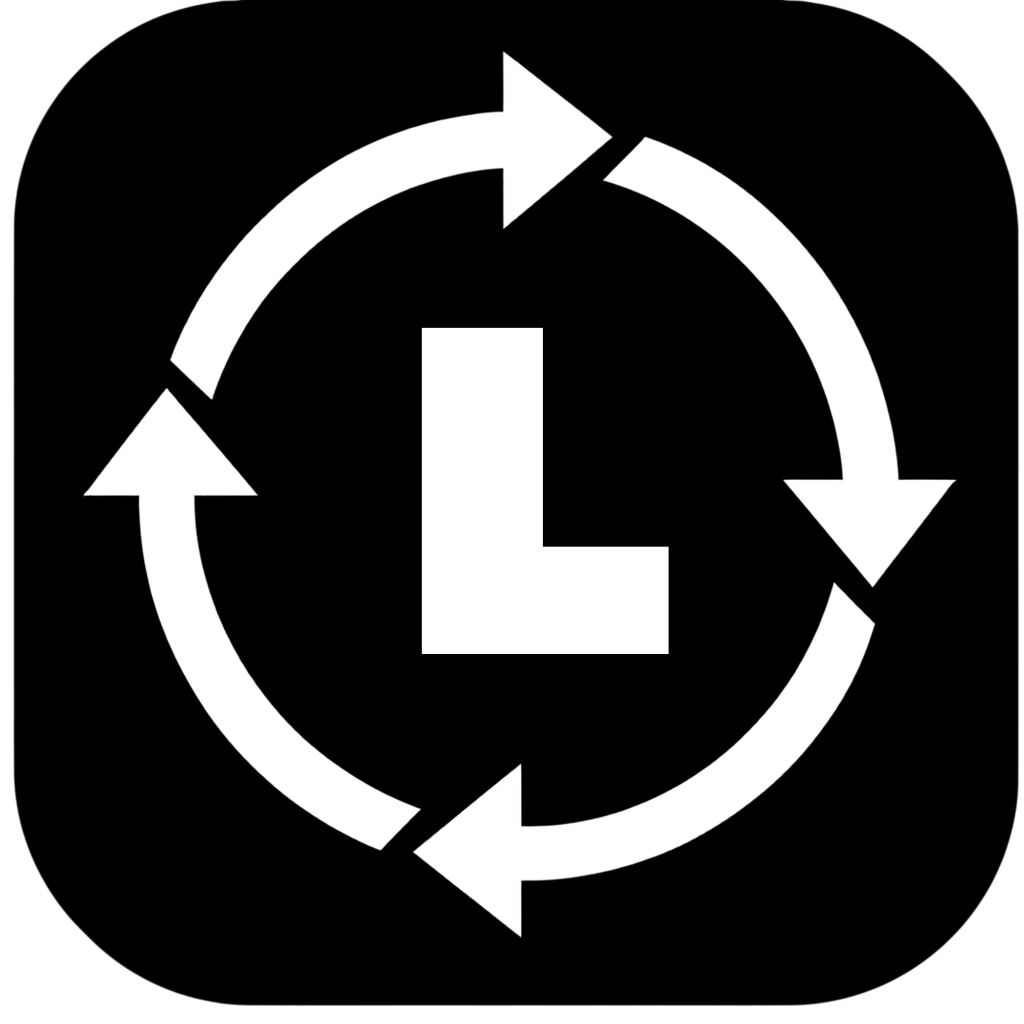
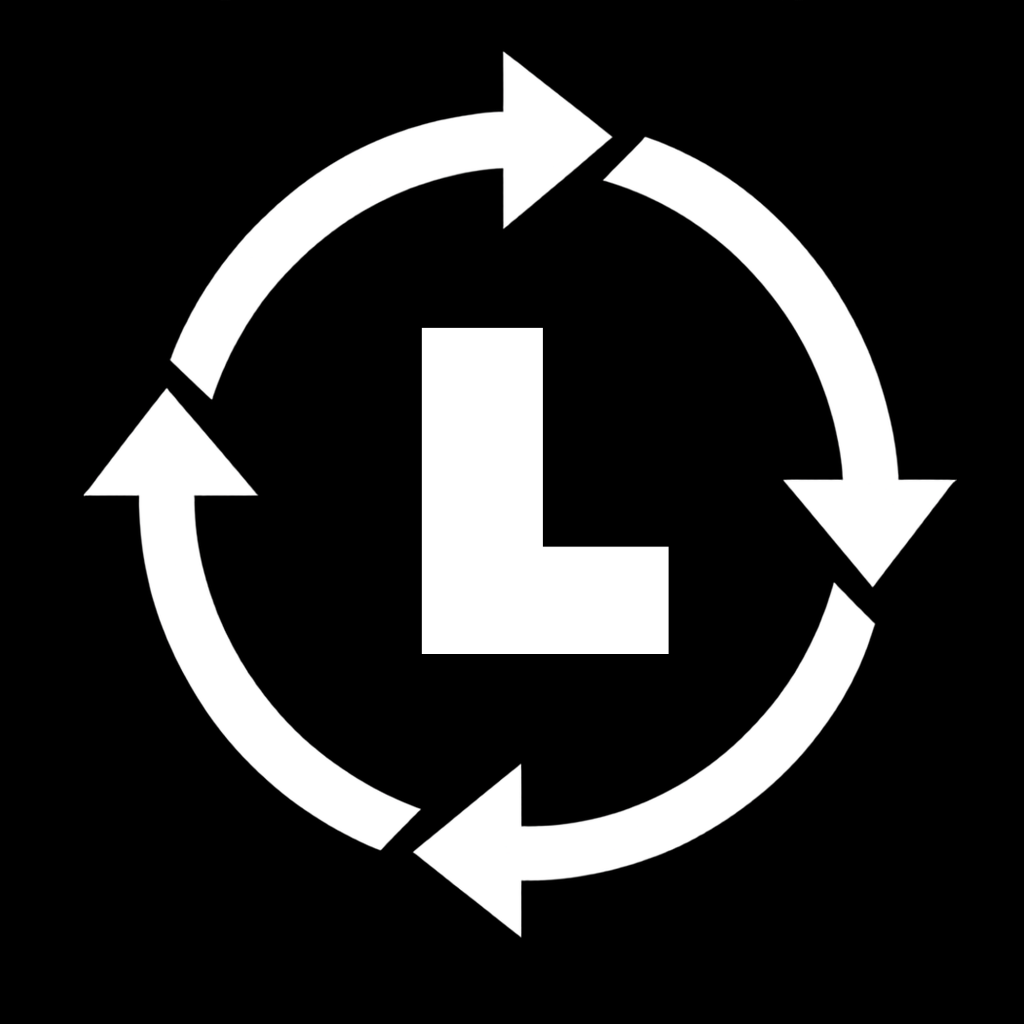
fix(ux) : app matches device colour mode

Changed region(s): [[0.0, 0.0, 1.0, 1.0]]

diff --git a/process_icon.js b/process_icon.js
@@ -1,0 +1,18 @@
+const sharp = require('sharp');
+const path = require('path');
+
+async function processIcon() {
+  const input = 'C:\\Users\\Arpit\\.gemini\\antigravity-ide\\brain\\6980bc9d-1dc7-40f2-983b-bce7745c2b24\\.user_uploaded\\media_1787327861571.png';
+  
+  await sharp(input)
+    .flatten({ background: { r: 0, g: 0, b: 0 } }) // Fills transparent areas with solid black
+    .toFile(path.join(__dirname, 'src', 'app', 'icon.png'));
+    
+  await sharp(input)
+    .flatten({ background: { r: 0, g: 0, b: 0 } })
+    .toFile(path.join(__dirname, 'src', 'app', 'apple-icon.png'));
+    
+  console.log('Icons processed');
+}
+
+processIcon().catch(console.error);

diff --git a/src/app/layout.tsx b/src/app/layout.tsx
@@ -1,4 +1,4 @@
-import type { Metadata } from "next";
+import type { Metadata, Viewport } from "next";
 import { Geist, Geist_Mono } from "next/font/google";
 import "./globals.css";
 import { ThemeProvider } from "@/components/ThemeProvider";
@@ -20,6 +20,13 @@ const geistMono = Geist_Mono({
 export const metadata: Metadata = {
   title: "LeetCode FSRS",
   description: "Track your LeetCode practice with spaced repetition",
+};
+
+export const viewport: Viewport = {
+  themeColor: [
+    { media: "(prefers-color-scheme: light)", color: "#ffffff" },
+    { media: "(prefers-color-scheme: dark)", color: "#0a0a0a" },
+  ],
 };
 
 export default function RootLayout({

diff --git a/src/app/manifest.ts b/src/app/manifest.ts
@@ -1,0 +1,20 @@
+import { MetadataRoute } from 'next'
+ 
+export default function manifest(): MetadataRoute.Manifest {
+  return {
+    name: 'LeetCode FSRS',
+    short_name: 'LeetCode FSRS',
+    description: 'Track your LeetCode practice with spaced repetition',
+    start_url: '/',
+    display: 'standalone',
+    background_color: '#0a0a0a',
+    theme_color: '#0a0a0a',
+    icons: [
+      {
+        src: '/icon.png',
+        sizes: 'any',
+        type: 'image/png',
+      },
+    ],
+  }
+}

diff --git a/README.md b/README.md
@@ -1,6 +1,6 @@
 # LeetCode Spaced Repetition (FSRS) Tracker
 
-![Dashboard Snapshot](public/favicon.ico) <!-- Placeholder for actual screenshot -->
+![Dashboard Snapshot](public/dashboard-snapshot.png)
 
 A powerful web application designed to supercharge your technical interview prep. This app brings the science of **Spaced Repetition (FSRS)** to your LeetCode grind, ensuring that you review problems exactly when you're about to forget them. 
 
